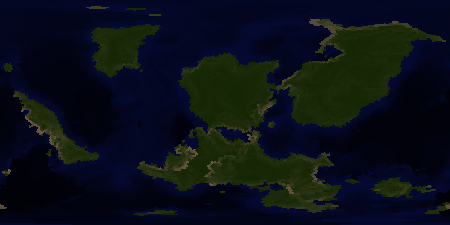
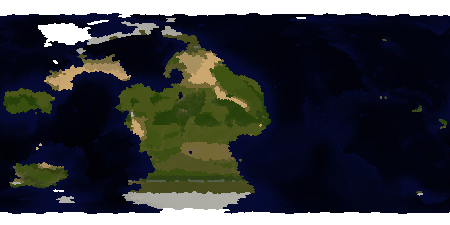
improve centering further

diff --git a/planet/src/main/kotlin/dev/biserman/planet/geometry/Geometry.kt b/planet/src/main/kotlin/dev/biserman/planet/geometry/Geometry.kt
@@ -254,19 +254,34 @@ fun (Double).scaleAndCoerceUnit(expectedRange: ClosedRange<Double>) = this.scale
 fun longitudeDistanceDegrees(first: Double, second: Number): Double =
     ((first - second.toDouble() + 540.0) % 360.0 - 180.0).absoluteValue
 
-fun bestDateLineDegrees(
-    landMasses: Iterable<Pair<Double, Double>>,
-    edgeThresholdDegrees: Double = 2.5
-): Int {
+fun bestOceanCorridorDateLineDegrees(
+    meridianLandCoverage: IntArray,
+    landMasses: Iterable<Pair<Double, Double>>
+): Double {
+    require(meridianLandCoverage.isNotEmpty())
+
     val land = landMasses.toList()
-    return (0..359).minWith(
-        compareBy<Int> { dateLine ->
-            land.count { (longitude, _) -> longitudeDistanceDegrees(longitude, dateLine) <= edgeThresholdDegrees }
-        }.thenBy { dateLine ->
-            val mapCenter = dateLine + 180
-            land.sumOf { (longitude, area) ->
-                area * (longitudeDistanceDegrees(longitude, mapCenter) / 180.0).pow(2)
-            }
+    val columnCount = meridianLandCoverage.size
+    val oceanClearance = IntArray(columnCount) { column ->
+        if (meridianLandCoverage[column] > 0) {
+            0
+        } else {
+            (1..columnCount / 2).firstOrNull { distance ->
+                meridianLandCoverage[(column - distance + columnCount) % columnCount] > 0 ||
+                    meridianLandCoverage[(column + distance) % columnCount] > 0
+            } ?: columnCount / 2
         }
+    }
+
+    val bestColumn = (0..<columnCount).minWith(
+        compareBy<Int> { column -> meridianLandCoverage[column] }
+            .thenByDescending { column -> oceanClearance[column] }
+            .thenBy { column ->
+                val mapCenter = column.toDouble() * 360.0 / columnCount + 180.0
+                land.sumOf { (longitude, area) ->
+                    area * (longitudeDistanceDegrees(longitude, mapCenter) / 180.0).pow(2)
+                }
+            }
     )
+    return bestColumn.toDouble() * 360.0 / columnCount
 }

diff --git a/planet/src/main/kotlin/dev/biserman/planet/planet/Planet.kt b/planet/src/main/kotlin/dev/biserman/planet/planet/Planet.kt
@@ -149,11 +149,28 @@ class Planet(val seed: Int, val size: Int) {
     }
 
     val internationalDateLine by memo({ terrainChangeCount }) {
-        bestDateLineDegrees(
+        bestOceanCorridorDateLineDegrees(
+            projectedMeridianLandCoverage(),
             planetTiles.values
                 .filter { it.isAboveWater }
                 .map { it.tile.position.toGeoPoint().longitudeDegrees to it.tile.area }
         ) * PI / 180.0
+    }
+
+    private fun projectedMeridianLandCoverage(): IntArray {
+        val sampleRadius = topology.averageRadius * 1.5
+        return IntArray(DATE_LINE_SAMPLE_WIDTH) { column ->
+            val longitude = column.toDouble() * 360.0 / DATE_LINE_SAMPLE_WIDTH
+            (0..<DATE_LINE_SAMPLE_HEIGHT).count { row ->
+                val latitude = (0.5 - (row + 0.5) / DATE_LINE_SAMPLE_HEIGHT) * 180.0
+                val samplePoint = GeoPoint.fromDegrees(latitude, longitude).toVector3()
+                val nearestTile = topology.rTree
+                    .nearest(samplePoint.toPoint(), sampleRadius, 1)
+                    .firstOrNull()
+                    ?.value()
+                nearestTile != null && getTile(nearestTile).isAboveWater
+            }
+        }
     }
 
     val waterCoverage by memo({ terrainChangeCount }) {
@@ -163,6 +180,11 @@ class Planet(val seed: Int, val size: Int) {
     val rotationRate = 1.0
 
     fun getTile(tile: Tile) = planetTiles[tile.id]!!
+
+    companion object {
+        private const val DATE_LINE_SAMPLE_WIDTH = 720
+        private const val DATE_LINE_SAMPLE_HEIGHT = 360
+    }
 
     var planetStats = PlanetStats()
 

diff --git a/planet/src/test/kotlin/dev/biserman/planet/geometry/GeometryTest.kt b/planet/src/test/kotlin/dev/biserman/planet/geometry/GeometryTest.kt
@@ -11,8 +11,22 @@ class GeometryTest {
     }
 
     @Test
-    fun `best date line centers land after avoiding the edge`() {
-        assertEquals(180, bestDateLineDegrees(listOf(0.0 to 1.0)))
-        assertEquals(170, bestDateLineDegrees(listOf(-10.0 to 1.0)))
+    fun `best date line chooses the center of the widest ocean corridor`() {
+        val coverage = intArrayOf(1, 1, 1, 0, 0, 0, 0, 1, 1, 1, 1, 1)
+
+        assertEquals(
+            120.0,
+            bestOceanCorridorDateLineDegrees(coverage, listOf(-60.0 to 1.0))
+        )
+    }
+
+    @Test
+    fun `best date line centers land when ocean corridors are equally wide`() {
+        val coverage = intArrayOf(0, 0, 1, 1, 1, 1, 0, 0, 1, 1, 1, 1)
+
+        assertEquals(
+            180.0,
+            bestOceanCorridorDateLineDegrees(coverage, listOf(0.0 to 1.0))
+        )
     }
 }

diff --git a/planet/src/main/kotlin/dev/biserman/planet/gui/StatsGraph.kt b/planet/src/main/kotlin/dev/biserman/planet/gui/StatsGraph.kt
@@ -54,7 +54,7 @@ class StatsGraph(val rootNode: CanvasItem) {
             if (value != null) {
                 graph.yLabel = value.yLabel
                 graph.integerYLabels = value.usesIntegerValues(planet!!)
-                graph.setPoints(statValues[value.name]!!)
+                graph.setPoints(statValues[value.name] ?: emptyList())
                 rescale(value)
                 updateCurrentValue(value, planet!!)
                 menuButton.setText(value.name + " ▽")
